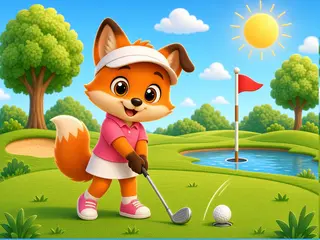
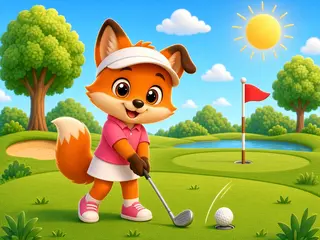
Coloring: Golf on the Green redrawn with the flag and hole on the putting green (pond moved back behind it), line art and color example

diff --git a/index.html b/index.html
@@ -2057,7 +2057,7 @@ redo('pr_cuco', (() => {
 })();
 
 // raster storybook pages (generated by /workspace/juniper-art/gen_art5.py)
-(()=>{const R={'blade':'bc5c186d','ca_gate':'3c29ca3b','ca_glitch':'586e7c49','ca_lick':'ff7f7a1f','ca_mission':'d2c4fde4','ca_orchard':'0317dbd4','ca_stadium':'48535fbc','coqui':'756ab3f9','gazebo':'53beee5e','golf':'ea27210c','marcus':'4a6ecc1b','marengo':'ad7c1ae1','nicolo':'52ac9a28','nyc_bow':'1e777082','nyc_bridge':'95d9d777','nyc_liberty':'25351f97','nyc_rat':'b55eacc2','nyc_rink':'6070e293','nyc_skyline':'61c1c3de','oscar':'b20d6f79','pearl':'d69b4d0e','pr_beach':'28c8ed44','pr_cuco':'8fd89b53','pr_flamboyan':'53eaa15d','pr_morro':'6ab03a93','pr_sanjuan':'a13d778b','pr_yunque':'f5550432','scramble':'672028a0','skate':'3eb5d7e3','teddy':'e0474b39','toulouse':'037d8c72','vail_aspens':'3b6a5b71','vail_bridge':'33b71f42','vail_clock':'3fd34c0f','vail_gondola':'7bc1e6ba','vail_lift':'d77c79cb','vail_yeti':'964d0cea','winnie':'e247d378'};
+(()=>{const R={'blade':'bc5c186d','ca_gate':'3c29ca3b','ca_glitch':'586e7c49','ca_lick':'ff7f7a1f','ca_mission':'d2c4fde4','ca_orchard':'0317dbd4','ca_stadium':'48535fbc','coqui':'756ab3f9','gazebo':'53beee5e','golf':'f1a5948a','marcus':'4a6ecc1b','marengo':'ad7c1ae1','nicolo':'52ac9a28','nyc_bow':'1e777082','nyc_bridge':'95d9d777','nyc_liberty':'25351f97','nyc_rat':'b55eacc2','nyc_rink':'6070e293','nyc_skyline':'61c1c3de','oscar':'b20d6f79','pearl':'d69b4d0e','pr_beach':'28c8ed44','pr_cuco':'8fd89b53','pr_flamboyan':'53eaa15d','pr_morro':'6ab03a93','pr_sanjuan':'a13d778b','pr_yunque':'f5550432','scramble':'672028a0','skate':'3eb5d7e3','teddy':'e0474b39','toulouse':'037d8c72','vail_aspens':'3b6a5b71','vail_bridge':'33b71f42','vail_clock':'3fd34c0f','vail_gondola':'7bc1e6ba','vail_lift':'d77c79cb','vail_yeti':'964d0cea','winnie':'e247d378'};
 ART.pages.forEach(p=>{const q=R[p.id];if(!q)return;const b='art/pages/'+p.id;p.line=b+'_line.png?v='+q;p.wall=b+'_wall.png?v='+q;p.color=b+'_color.webp?v='+q;p.thumb=b+'_thumb.png?v='+q;p.cthumb=b+'_cthumb.webp?v='+q;});})();
 </script>
 <script>// Reward stickers unlocked in Juniper's Learning Park (shared by both apps, same origin).
@@ -2692,7 +2692,7 @@ window.JCP = { S, analyze, peek, openPage, finish, gallery, pages: ART.pages, ST
 })();
 
 // ---------- auto-update: poll cversion.json, reload when a new build is live ----------
-const CBUILD = '20261116141651-dc494f';
+const CBUILD = '20261117110629-4b3c5e';
 function checkUpdate() { if (location.protocol === 'file:') return; fetch('cversion.json?t=' + Date.now(), { cache: 'no-store' }).then(r => r.ok ? r.json() : null).then(j => { if (j && j.v && j.v !== CBUILD && !document.getElementById('paint').classList.contains('on')) location.reload(); }).catch(() => {}); }
 document.addEventListener('visibilitychange', () => { if (!document.hidden) checkUpdate(); }); setInterval(checkUpdate, 5 * 60 * 1000); setTimeout(checkUpdate, 3000);
 setTimeout(() => window.JCP && JCP.celebrateScenes(), 600);
